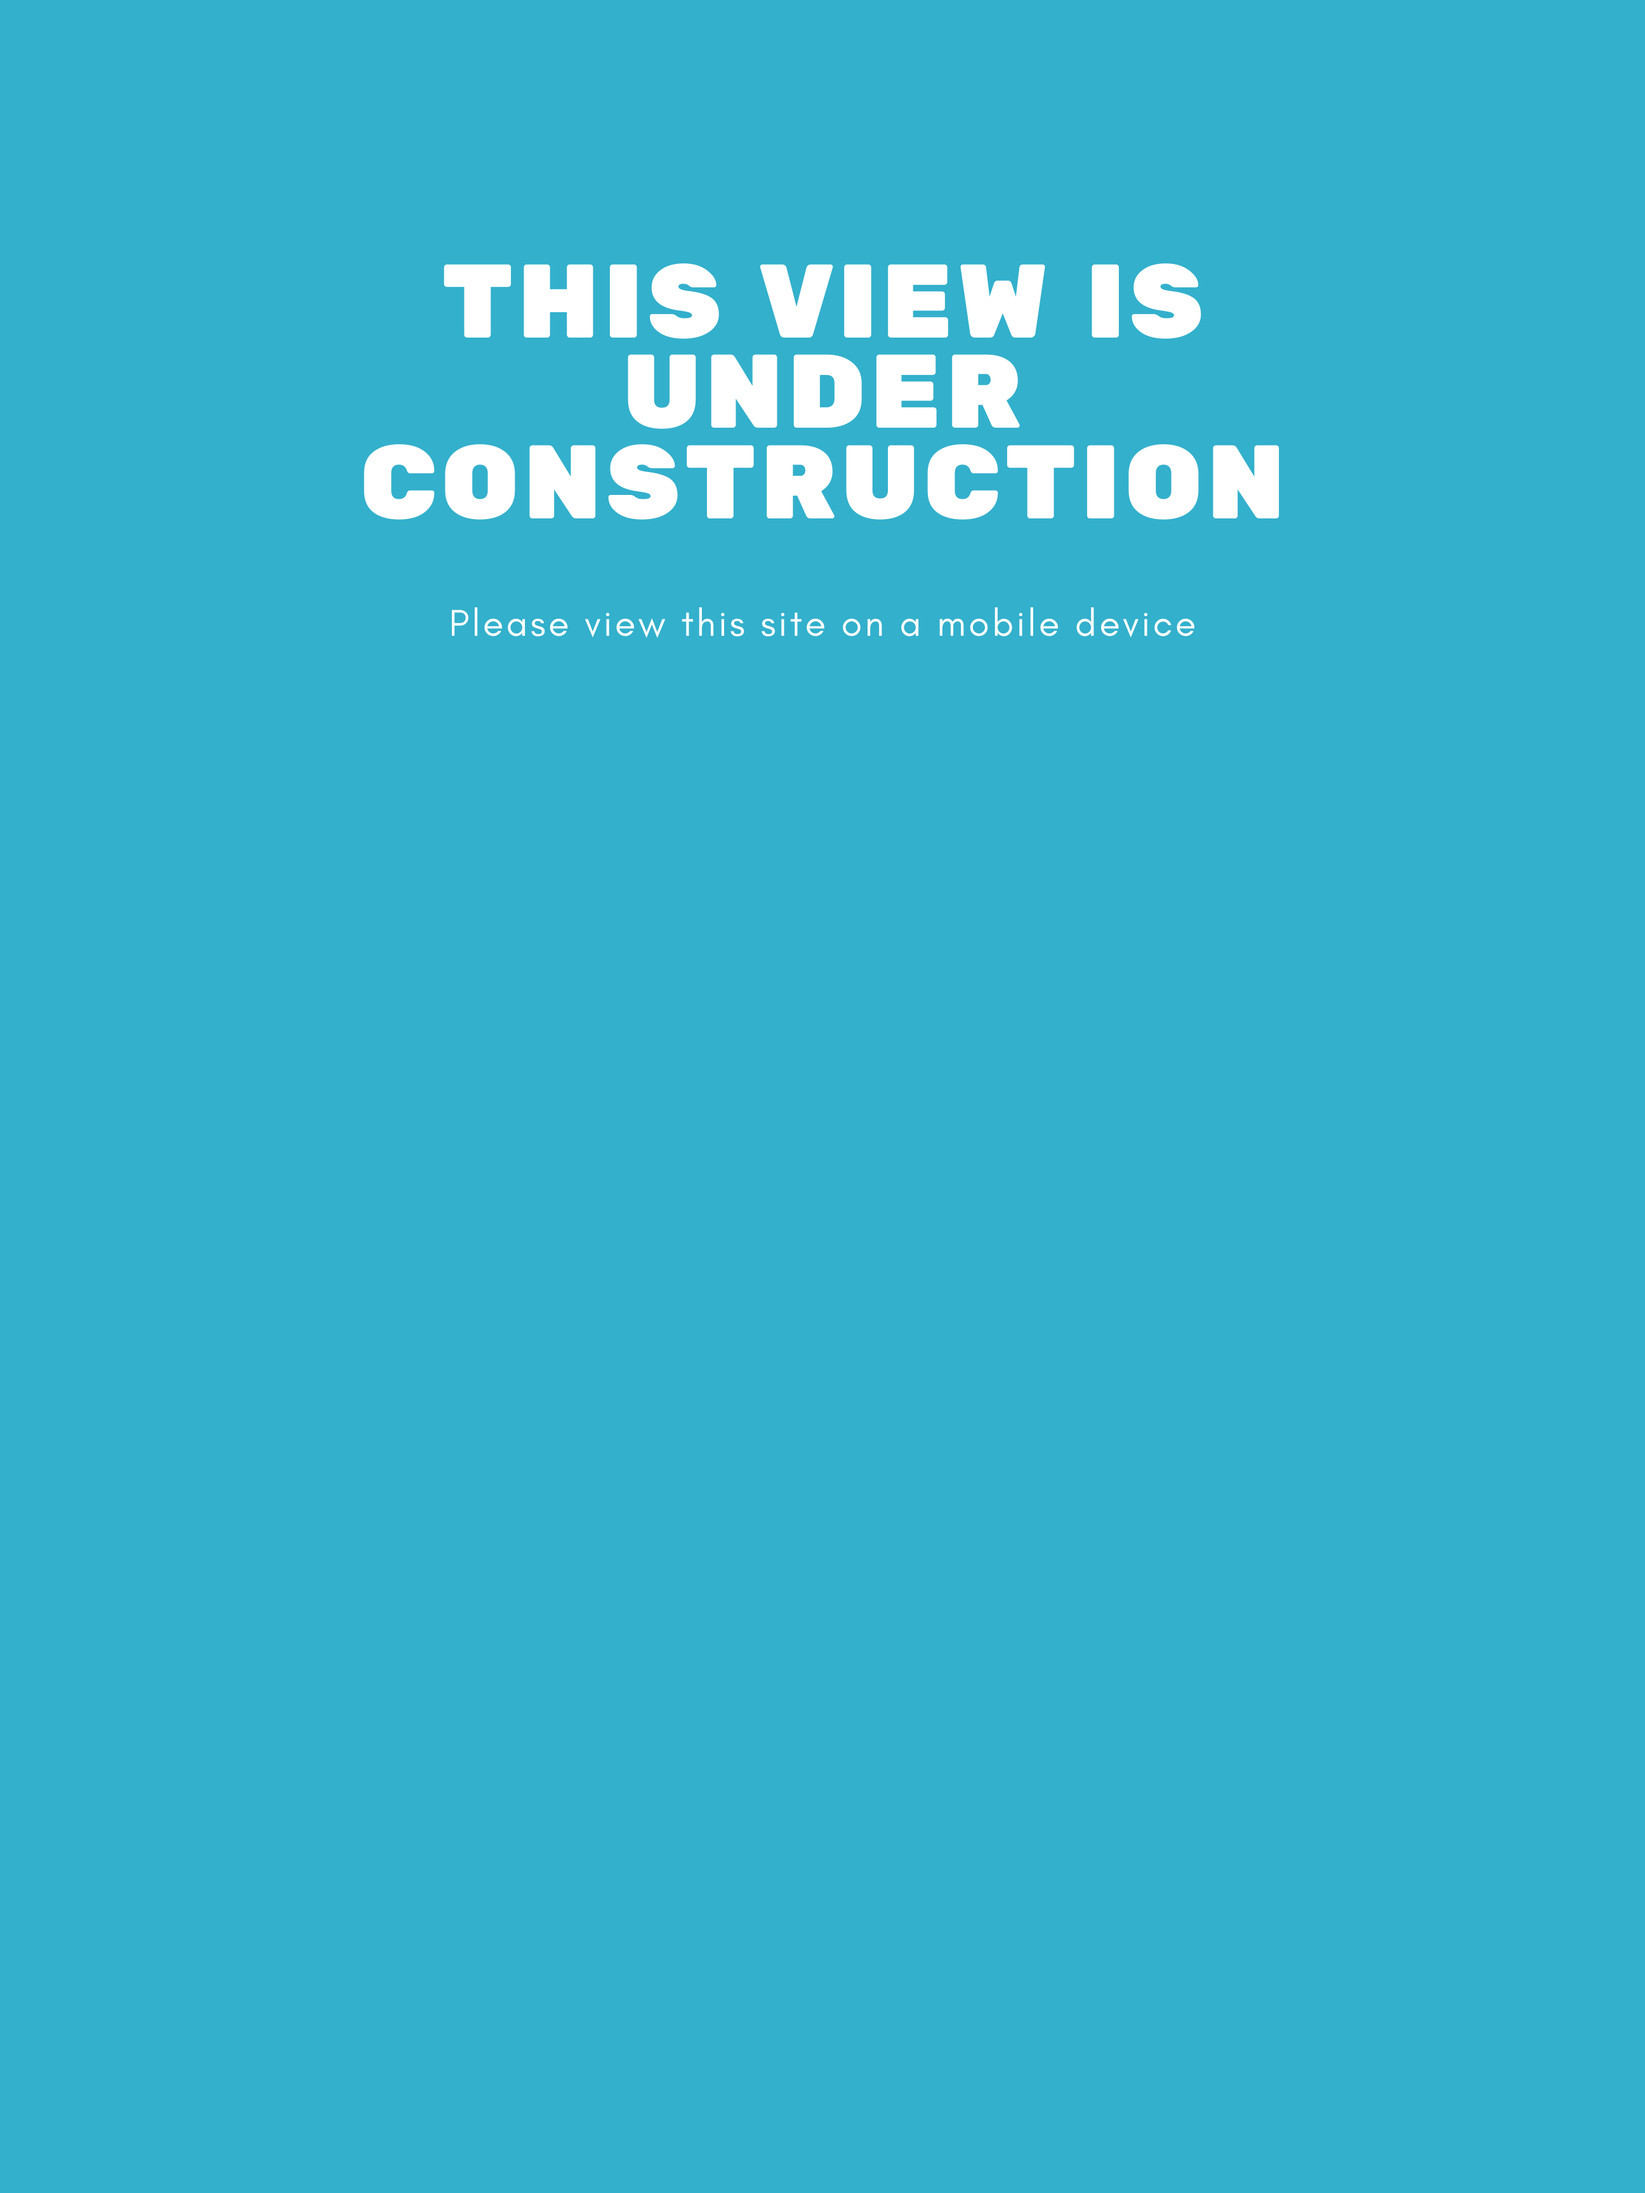
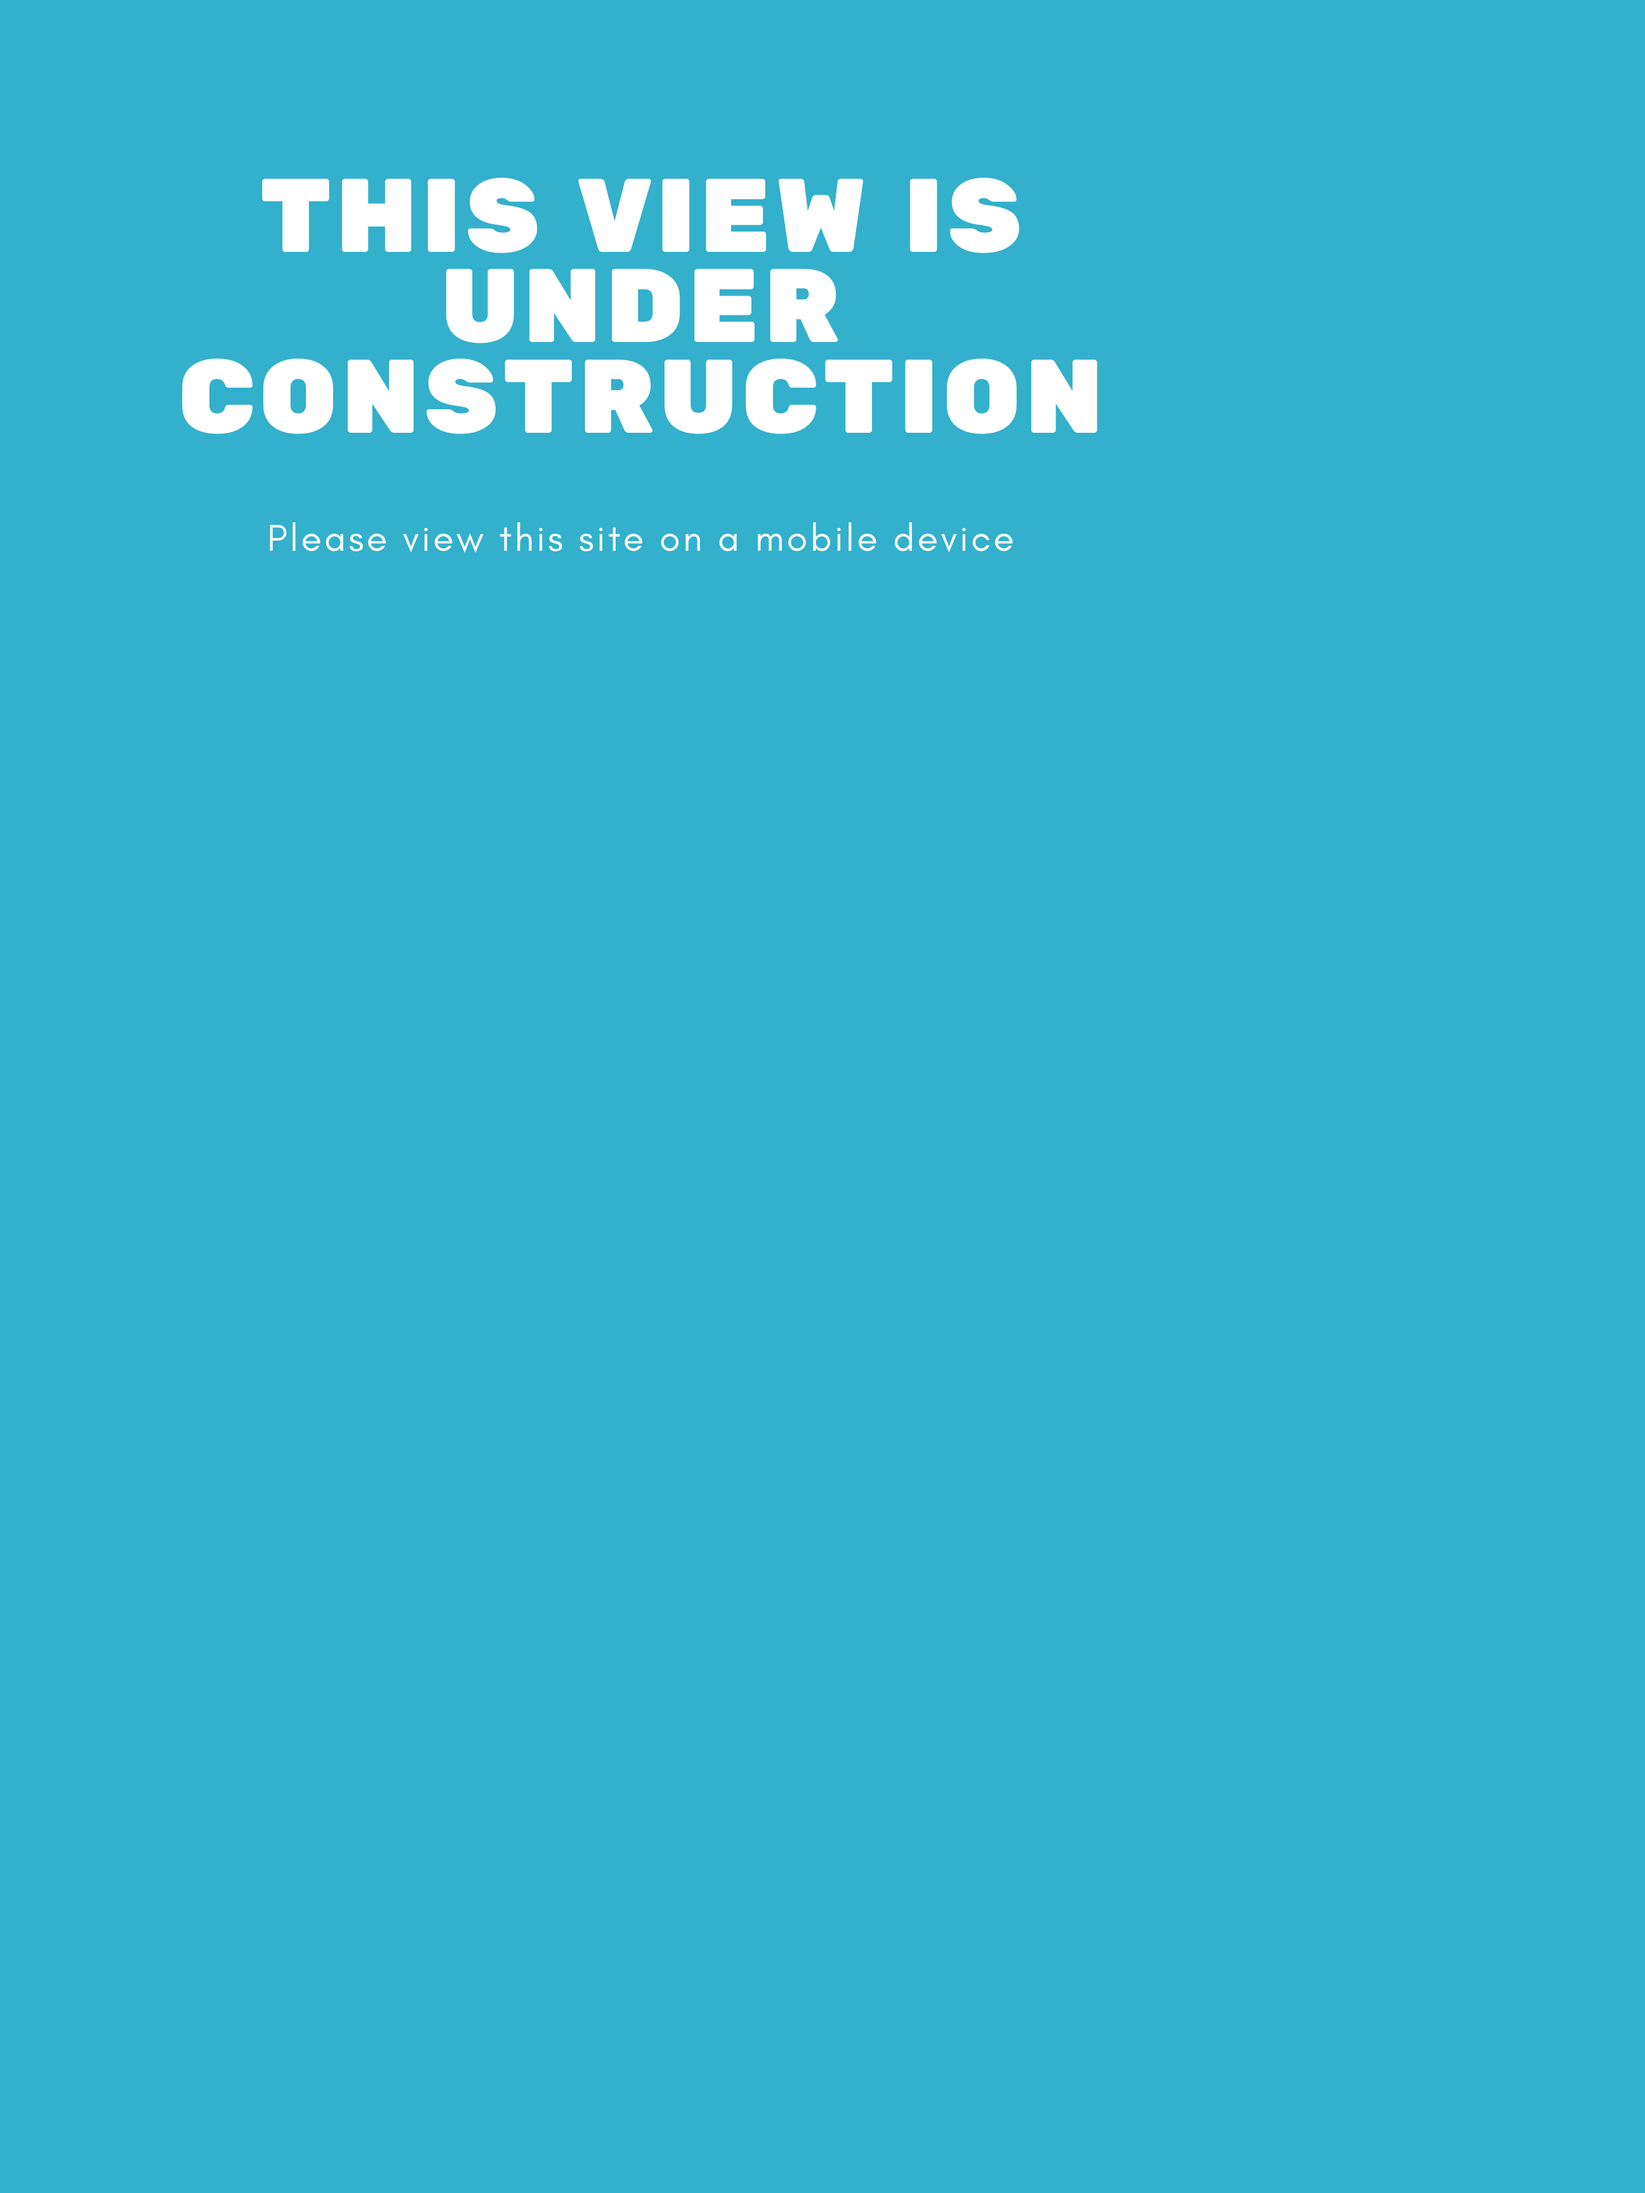
update css.

diff --git a/app/assets/stylesheets/application.scss b/app/assets/stylesheets/application.scss
@@ -444,6 +444,7 @@ img.hover-shadow {
 
   body {
     background-image: url(/mobile4.png);
+    margin-left: -20%;
   }
   #whiteOut {
     display: none;
